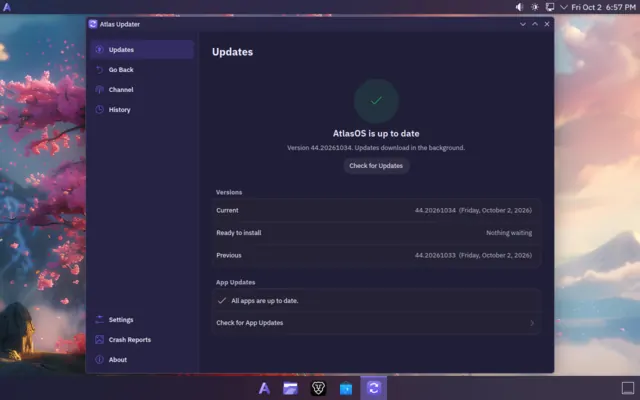
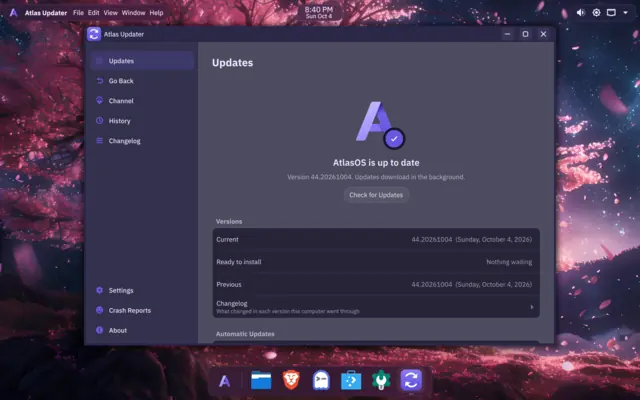
AtlasOS Linux: new screenshots at 2560 wide, copy from the current README
The hero is the desktop cut diagonally into Light and Dark, with Atlas
Notepad and Ghostty instead of Dolphin; the launcher replaces the
removed launcher choice, and the setup and updater shots are new.
Screenshots come in 480 to 2560 wide, and the lightbox opens the
2560 file. The name is AtlasOS Linux, with a line saying it isn't
related to AtlasOS for Windows (Atlas-OS). Stale copy fixed: Atlas
Notepad, not Kate; Atlas Monitor in place of btop; Open Terminal Here;
Papirus, not Dracula; AtlasOS's own style, not Breeze.

diff --git a/app/page.tsx b/app/page.tsx
@@ -23,7 +23,9 @@ function Header() {
         <a href="#top" className="flex items-center gap-2.5 font-semibold tracking-tight">
           {/* eslint-disable-next-line @next/next/no-img-element -- a 3 KB SVG */}
           <img src="/brand/atlas-mark.svg" alt="" width={28} height={28} className="size-7" />
-          AtlasOS
+          <span className="whitespace-nowrap">
+            AtlasOS <span className="font-normal text-text-3 max-[359px]:hidden">Linux</span>
+          </span>
         </a>
         <nav aria-label="Main" className="flex items-center gap-1 text-sm sm:gap-2">
           <a href="#tools" className="hidden rounded-md px-3 py-2 text-text-2 hover:text-text md:block">Tools</a>
@@ -86,6 +88,9 @@ function Hero() {
             Or switch from Fedora Atomic <span aria-hidden="true">→</span>
           </a>
         </div>
+        <p className="mt-5 text-sm text-text-3">
+          AtlasOS Linux is its own project, not related to AtlasOS for Windows.
+        </p>
 
         <figure className="relative mt-14 sm:mt-16">
           <Horizon />
@@ -94,11 +99,11 @@ function Hero() {
               name="desktop"
               priority
               sizes="(min-width: 72rem) 1104px, calc(100vw - 2rem)"
-              alt="The AtlasOS desktop: a menu bar along the top, a floating dock at the bottom, and the Dolphin file manager open over a sakura wallpaper."
+              alt="The AtlasOS desktop, cut diagonally into AtlasOS Light on the left and AtlasOS Dark on the right: the menu bar on top, the floating dock at the bottom, and Atlas Notepad and Ghostty open over the sakura wallpaper."
             />
           </div>
           <figcaption className="mt-3 text-sm text-text-3">
-            The menu bar on top, the dock at the bottom, Dolphin in AtlasOS Light.
+            The menu bar on top, the dock at the bottom, in AtlasOS Light and Dark.
           </figcaption>
         </figure>
       </div>
@@ -120,11 +125,11 @@ function Tools() {
           </p>
           <dl className="mt-8 space-y-5">
             {[
-              ["Terminal", <><b className="font-semibold text-text">Ghostty</b> on Ctrl+Alt+T, and &ldquo;Open Ghostty Here&rdquo; in Dolphin.</>],
+              ["Terminal", <><b className="font-semibold text-text">Ghostty</b> on Ctrl+Alt+T, and &ldquo;Open Terminal Here&rdquo; in Dolphin.</>],
               ["Containers", <>Podman with a <code className="text-sm">docker</code> command and compose. Toolbox and Distrobox for mutable environments.</>],
               ["Runtimes", <><a className={link} href="https://mise.jdx.dev">mise</a> for Node, Python, Go and the rest.</>],
-              ["Command line", <>git, gh, just, jq, ripgrep, fd, btop, gdb, strace and perf.</>],
-              ["Editing", <>Kate by default, with file watch limits raised for big projects.</>],
+              ["Command line", <>git, gh, just, jq, ripgrep, fd, gdb, strace and perf, with Atlas Monitor in place of btop.</>],
+              ["Editing", <>Atlas Notepad as the text editor, with file watch limits raised for big projects.</>],
               ["Everything else", <><code className="text-sm">atlas</code>, a menu for Homebrew, Docker tools on Podman and JetBrains Toolbox. <a className={link} href={links.software}>Where software goes</a>.</>],
             ].map(([term, text]) => (
               <div key={term as string} className="grid gap-1 sm:grid-cols-[8.5rem_1fr] sm:gap-4">
@@ -246,8 +251,8 @@ function Looks() {
             Looks finished on the first boot.
           </h2>
           <p className="mt-4 text-lg text-text-2">
-            Plasma&apos;s own Breeze and KWin, set up properly, so nothing extra runs in the
-            background to make it look this way.
+            Plasma and KWin with AtlasOS&apos;s own style for the desktop and the apps, so nothing
+            extra runs in the background to make it look this way.
           </p>
         </div>
 
@@ -257,7 +262,7 @@ function Looks() {
               <Screenshot
                 name="setup-appearance"
                 sizes="(min-width: 72rem) 540px, (min-width: 48rem) 46vw, calc(100vw - 2rem)"
-                alt="The first-run setup's Appearance page, choosing between Light and Dark."
+                alt="The first-run setup's Appearance page in Dark, choosing between Light and Dark, with a preview of each."
               />
             </div>
             <figcaption className="mt-3 text-sm text-text-3">First-run setup: Light or Dark, both from the logo&apos;s violets.</figcaption>
@@ -265,22 +270,23 @@ function Looks() {
           <figure>
             <div className="overflow-hidden rounded-[var(--radius-card)] border border-line transition-[translate,box-shadow] duration-500 hover:-translate-y-1 hover:shadow-[0_24px_50px_-28px_rgba(104,88,226,0.6)]">
               <Screenshot
-                name="setup-launcher"
+                name="launcher"
                 sizes="(min-width: 72rem) 540px, (min-width: 48rem) 46vw, calc(100vw - 2rem)"
-                alt="The first-run setup's App Launcher page in Dark, choosing between Modern and Classic, over the night sakura wallpaper."
+                alt="The app launcher over the dock, cut diagonally into AtlasOS Light and Dark, with the favourite apps up front and one search box."
               />
             </div>
-            <figcaption className="mt-3 text-sm text-text-3">Then your launcher: Modern, over the dock, or Classic, a compact list.</figcaption>
+            <figcaption className="mt-3 text-sm text-text-3">The launcher, centred over the dock. Its search is the one search.</figcaption>
           </figure>
         </div>
 
         <ul data-reveal-children className="mt-12 grid gap-x-12 gap-y-3 text-text-2 sm:grid-cols-2">
           {[
             "A menu bar on top, a floating dock below, both see-through and blurred",
-            "Rounded windows, soft shadows and acrylic-style menus",
+            "Rounded windows, soft shadows, acrylic-style menus, and right-click menus that keep every action",
             "Two themes, AtlasOS Light and Dark, and the wallpaper turns to night with Dark",
-            "Bibata cursors and Dracula icons",
+            "Bibata cursors and Papirus icons, matched to each theme",
             "IBM Plex Sans for the interface, JetBrains Mono for code",
+            "Notifications that slide down at the top centre, under the clock",
             "A matching login and lock screen, and its own boot splash",
           ].map((item) => (
             <li key={item} className="flex gap-3">
@@ -414,7 +420,10 @@ function Footer() {
             <a className={link} href="https://bootc-dev.github.io/bootc/">bootc</a>. It&apos;s young:
             keep backups, as you would anyway.
           </p>
-          <p>Apache-2.0. Not affiliated with Fedora or KDE.</p>
+          <p>
+            Apache-2.0. Not affiliated with Fedora or KDE, and not related to AtlasOS, the Windows
+            modification by Atlas-OS.
+          </p>
         </div>
         <nav aria-label="Project" className="flex flex-wrap gap-x-6 gap-y-2">
           <a className="hover:text-text" href={site.repo}>Source</a>

diff --git a/components/screenshot.tsx b/components/screenshot.tsx
@@ -1,6 +1,7 @@
-/* A screenshot from public/screens, at 480, 640, 960 and 1280 wide. All of them
-   are 1280x800 originals, so the box is fixed at 16:10 before the file
-   arrives and nothing on the page moves when it does.
+/* A screenshot from public/screens, at 480 to 2560 wide. All of them are
+   2560x1600 originals (a 1280x800 desktop at 2x), so the box is fixed at
+   16:10 before the file arrives and nothing on the page moves when it does,
+   and high-density screens get a sharp copy.
 
    It links to the full-size file, so it opens even without a script; with
    one, components/lightbox.tsx opens it over the page instead. */
@@ -19,7 +20,7 @@ export function Screenshot({
 }) {
   return (
     <a
-      href={`/screens/${name}-1280.webp`}
+      href={`/screens/${name}-2560.webp`}
       data-zoom
       className="group relative block cursor-zoom-in focus-visible:outline-offset-[-4px]"
     >
@@ -28,7 +29,7 @@ export function Screenshot({
       {/* eslint-disable-next-line @next/next/no-img-element -- pre-sized variants, no image server */}
       <img
         src={`/screens/${name}-1280.webp`}
-        srcSet={[480, 640, 960, 1280].map((w) => `/screens/${name}-${w}.webp ${w}w`).join(", ")}
+        srcSet={[480, 640, 960, 1280, 1920, 2560].map((w) => `/screens/${name}-${w}.webp ${w}w`).join(", ")}
         sizes={sizes}
         width={1280}
         height={800}

diff --git a/lib/site.ts b/lib/site.ts
@@ -4,10 +4,10 @@
 export const siteUrl = process.env.NEXT_PUBLIC_SITE_URL ?? "https://atlasos.eterneon.net";
 
 export const site = {
-  name: "AtlasOS",
-  title: "AtlasOS: the Linux desktop for people who build things",
+  name: "AtlasOS Linux",
+  title: "AtlasOS Linux: a Fedora KDE desktop for people who build things",
   description:
-    "A Fedora and KDE Plasma desktop with your developer tools already installed, updates that wait for you, and automatic rollback. Idles at about 1 GB of RAM.",
+    "A Fedora and KDE Plasma desktop with your developer tools already installed, updates that wait for you, and automatic rollback. Not related to AtlasOS for Windows.",
   repo: "https://github.com/EternalCoder454/AtlasOS",
   installerRepo: "https://github.com/EternalCoder454/atlasos-installer",
 };

diff --git a/components/lightbox.tsx b/components/lightbox.tsx
@@ -7,8 +7,9 @@
    Clicking the picture magnifies it where you clicked; then the view
    follows the mouse, or the picture follows a dragging finger, and the
    arrow keys look around. Clicking again, or Esc, goes back.
-   The originals are 1280x800, so it magnifies enough to show them at full
-   size even on a phone, and no further than 4x.
+   The originals are a 1280x800 desktop at 2x, so it magnifies enough to
+   show that desktop at its own size even on a phone, sharp on high-density
+   screens, and no further than 4x.
 
    A native modal <dialog>: the browser keeps focus inside, makes the page
    behind it inert, closes it on Esc and returns focus to the link. */

diff --git a/app/layout.tsx b/app/layout.tsx
@@ -35,7 +35,7 @@ export const metadata: Metadata = {
         url: "/og.jpg",
         width: 1200,
         height: 630,
-        alt: "The AtlasOS desktop: a menu bar on top, a floating dock, and Dolphin over the sakura wallpaper",
+        alt: "The AtlasOS desktop in Light and Dark: a menu bar on top, and Atlas Notepad and Ghostty over the sakura wallpaper",
       },
     ],
   },
